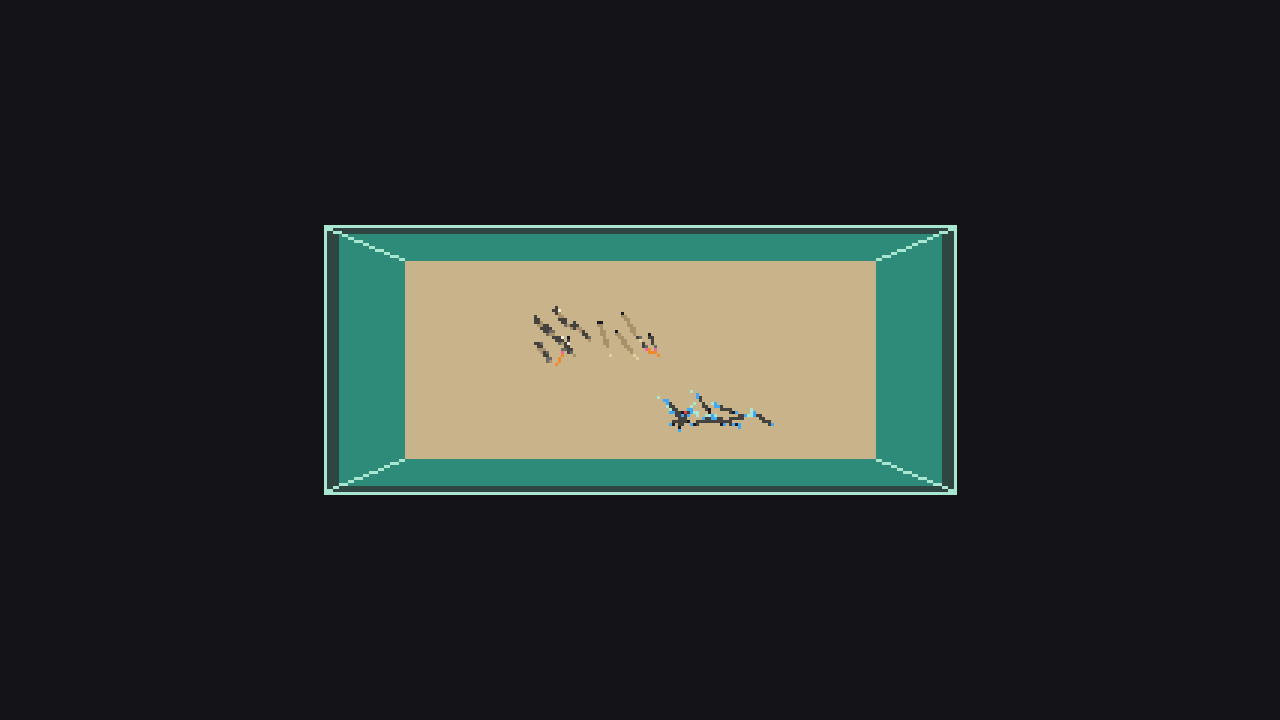
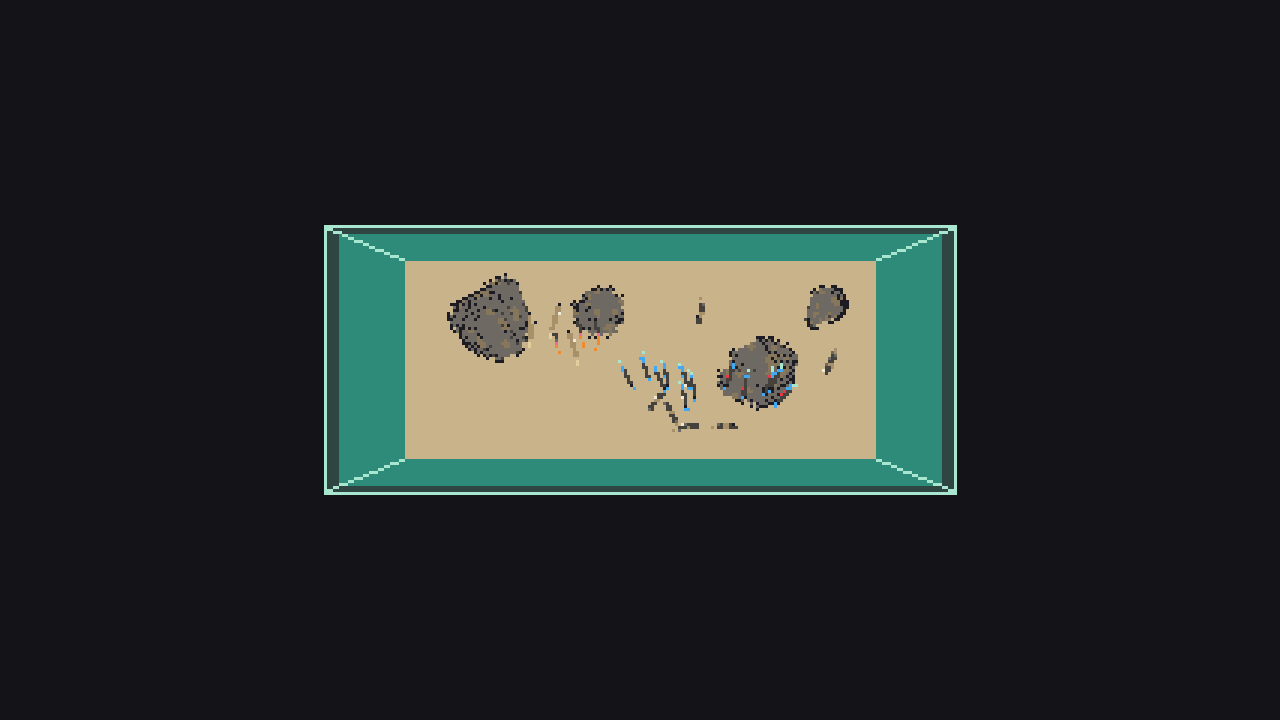
captures(c015): 5 angles

Changed region(s): [[0.3438, 0.3667, 0.6562, 0.6111], [0.625, 0.3972, 0.6875, 0.4583], [0.5312, 0.4278, 0.5625, 0.4583]]

diff --git a/captures/latest/SOURCE.md b/captures/latest/SOURCE.md
@@ -1,5 +1,3 @@
-# Source des captures c014
-
-- Branche : cycle/c014-corydora, PR #56
-- Commit : 4594eec (série) ; e2e ajoutés ensuite (ca6027c)
-- Graine : 42, temps : 30 s (défaut du harnais)
+# Captures c015 (QA)
+- Branche : cycle/c015-decor-rochers, PR #58, commit 07dc0e3 (code applicatif)
+- Graine 42, temps 30 s simulées, 1280x720

diff --git a/captures/c015/SOURCE.md b/captures/c015/SOURCE.md
@@ -1,0 +1,3 @@
+# Captures c015 (QA)
+- Branche : cycle/c015-decor-rochers, PR #58, commit 07dc0e3 (code applicatif)
+- Graine 42, temps 30 s simulées, 1280x720
